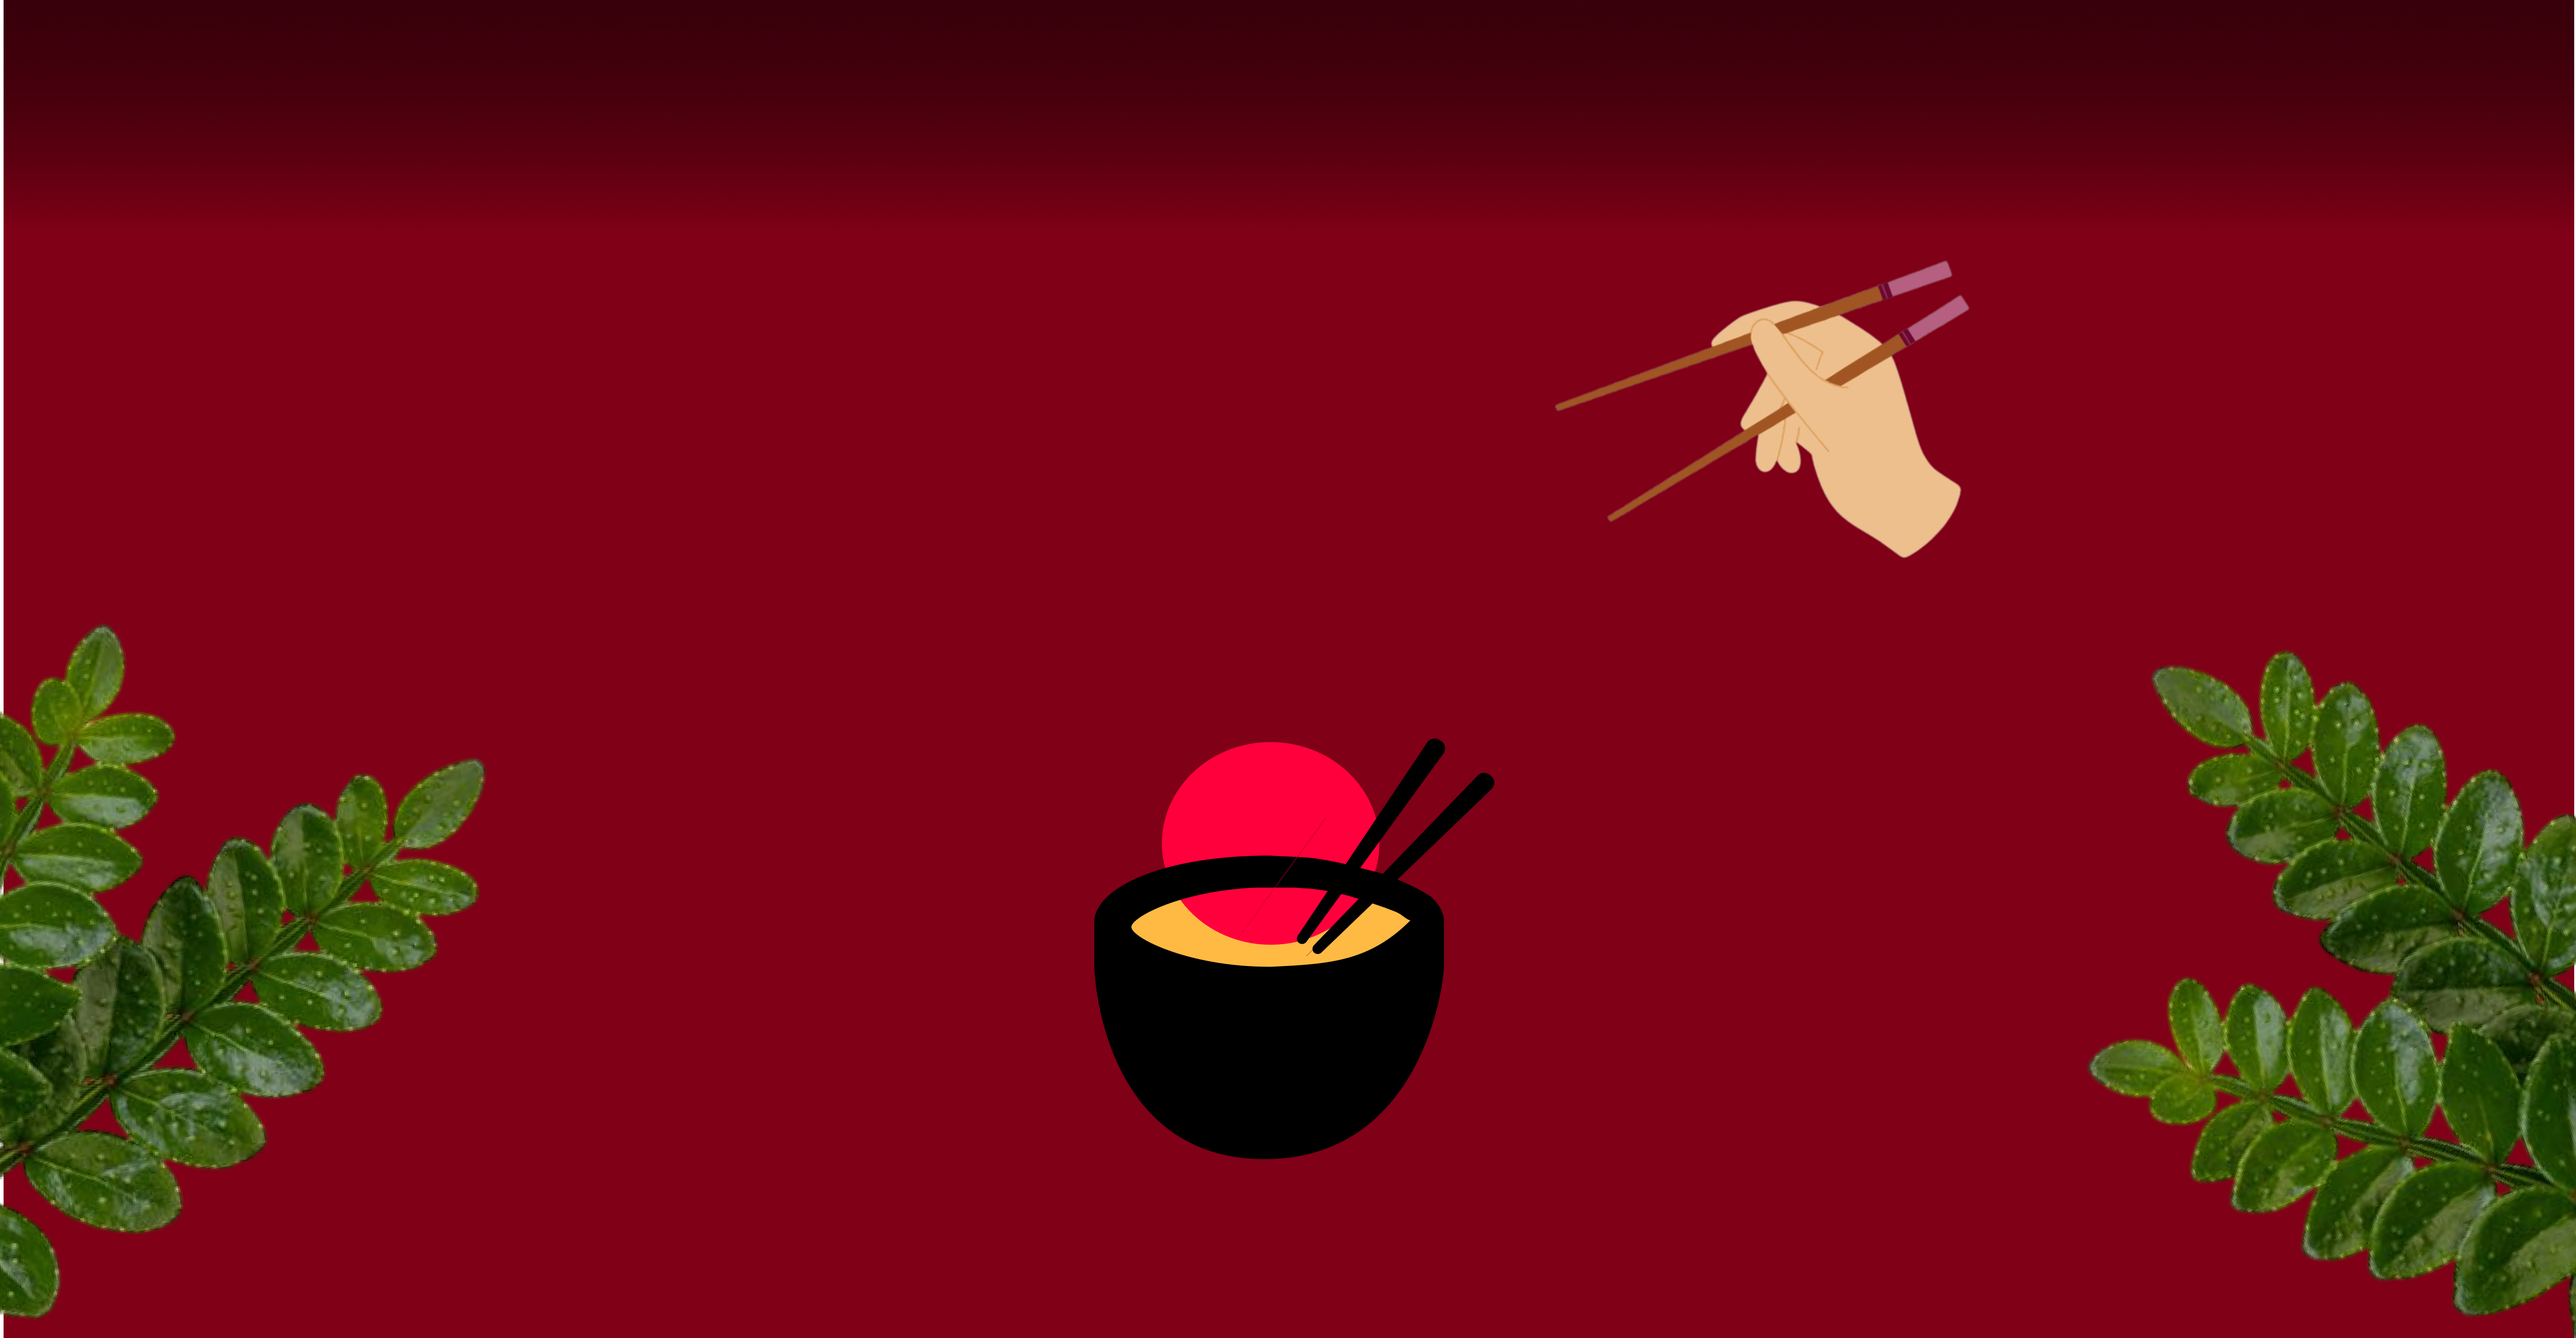
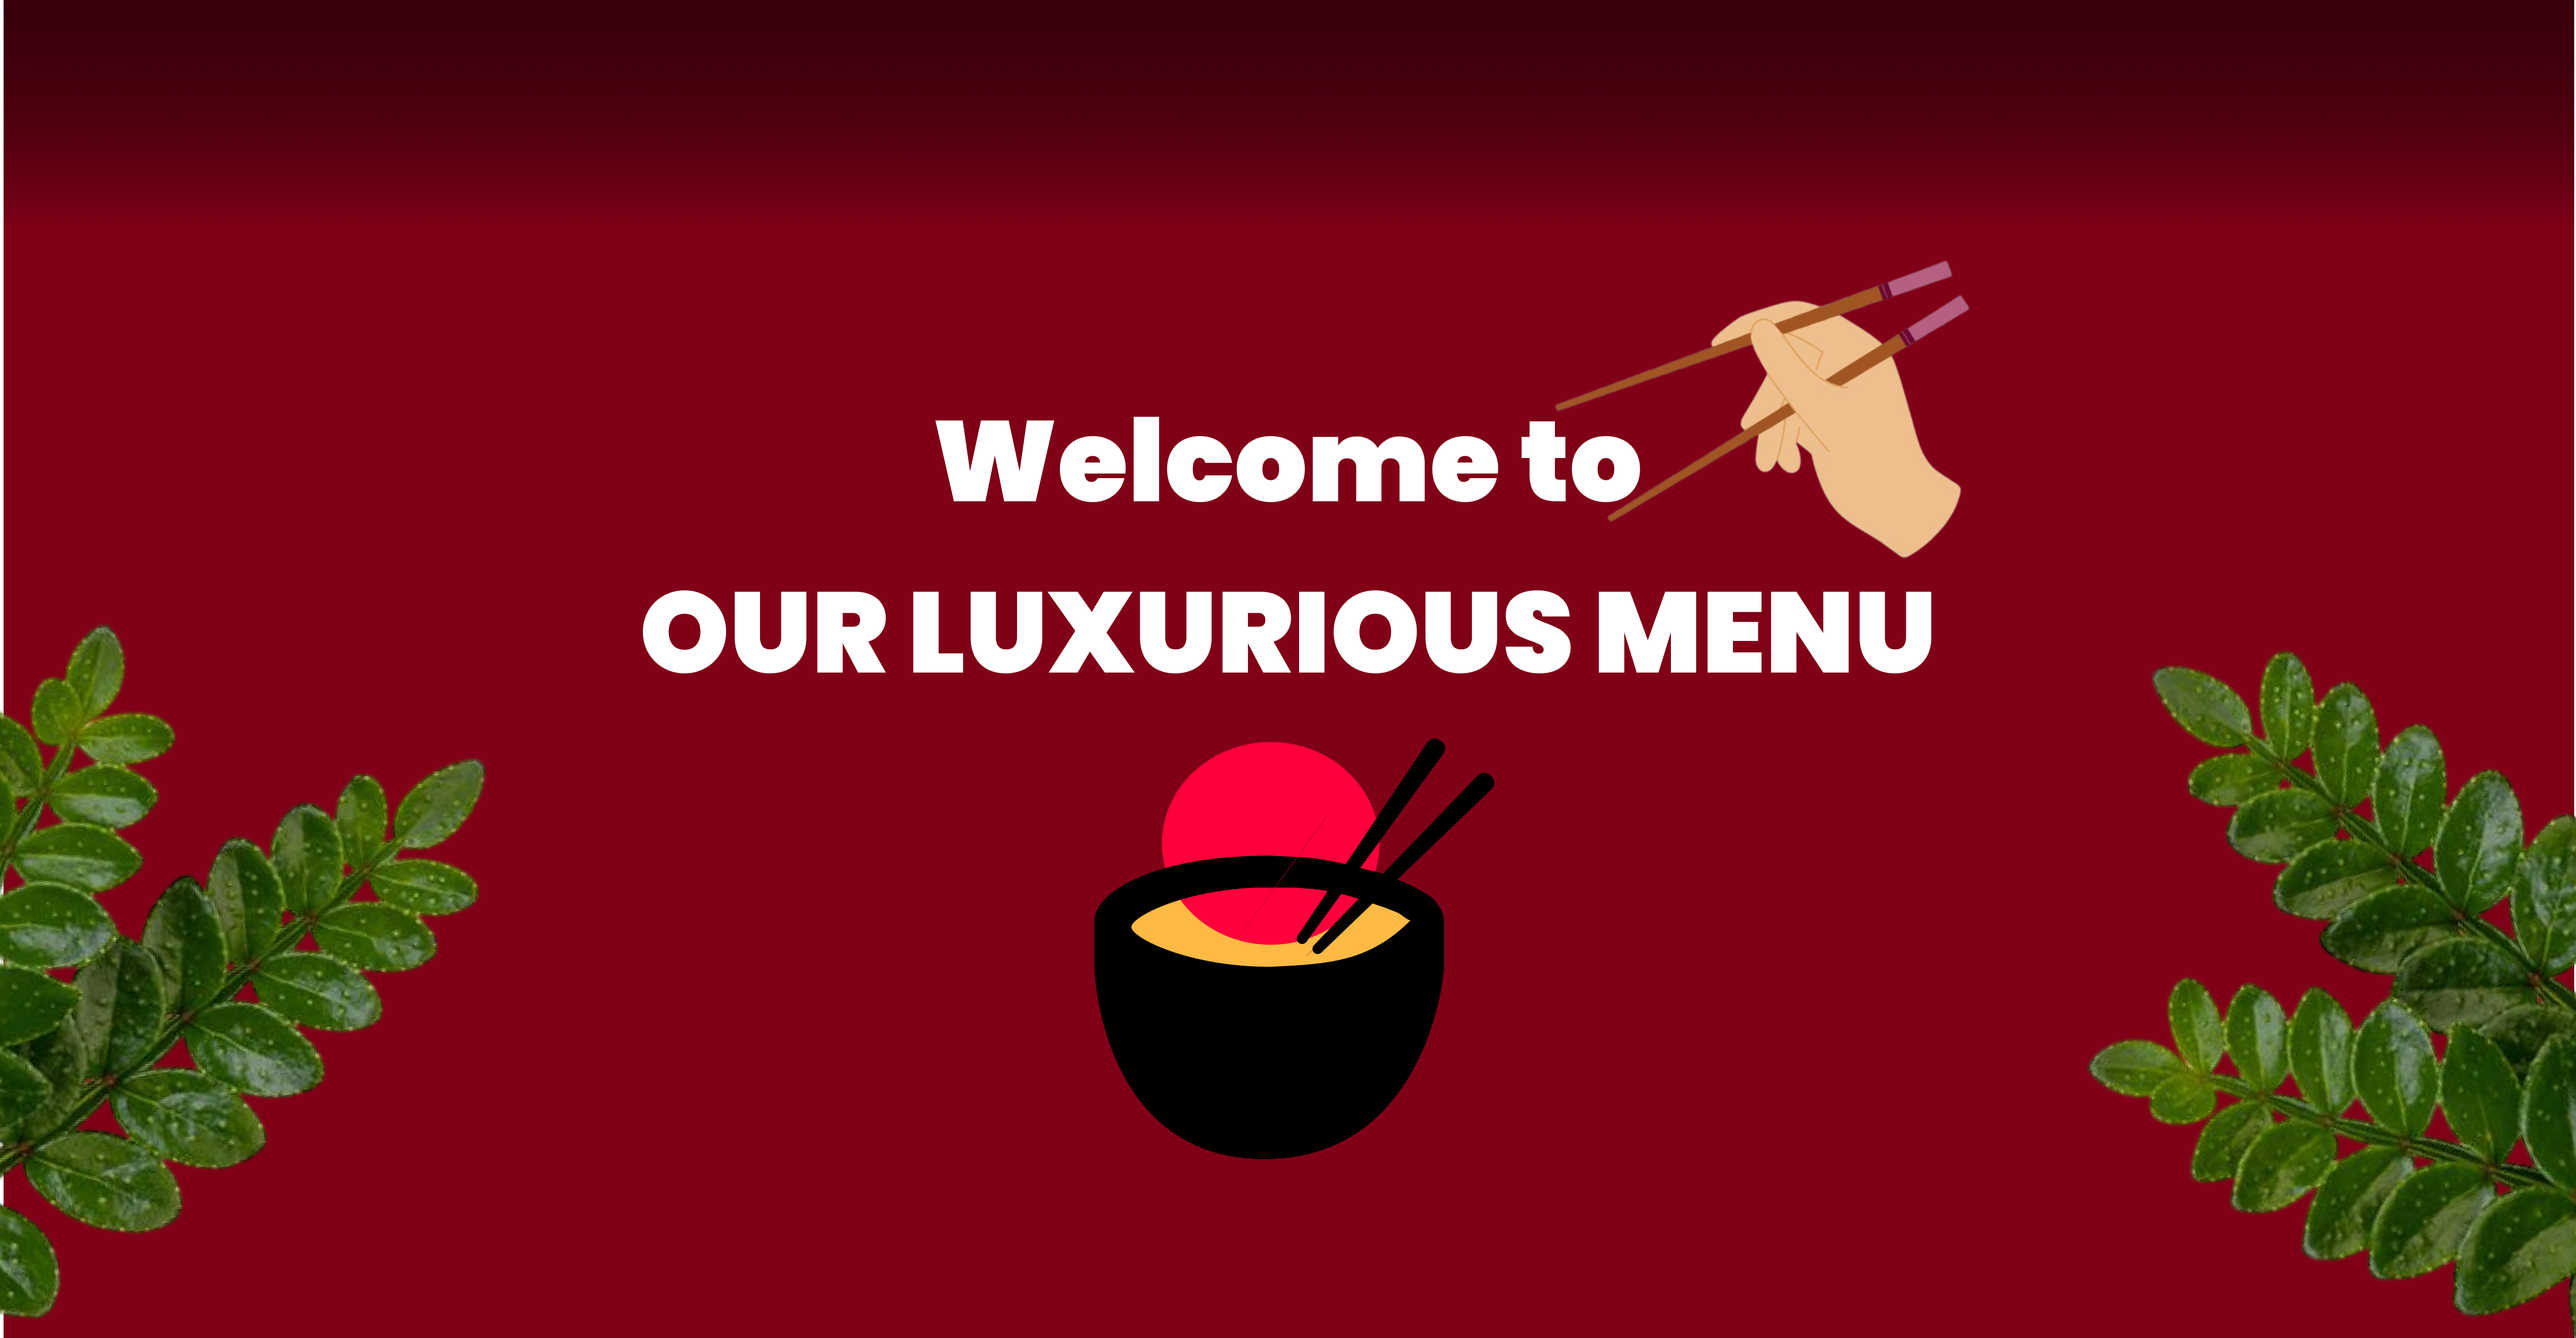
chore: home combo section

Changed region(s): [[0.2495, 0.434, 0.7484, 0.527], [0.343, 0.31, 0.6549, 0.372]]

diff --git a/resources/views/Landing/home.blade.php b/resources/views/Landing/home.blade.php
@@ -11,12 +11,109 @@
 </head>
     <body>
         @include('partials.header')
-        
+        <div class="relative z-10 h-[145vh] w-full"></div>
         <!-- Tambahkan class relative dan z-10 agar naik ke atas background -->
-        <div class="relative z-10 mt-300 -ml-20">
+        <div class="relative z-10 -ml-20">
             <img src="{{ asset('img/Logo/LogoWithName.png') }}" class="scale-40">
             <p class="text-yellow-300 font-bold ml-60 -mt-15 mb-10 text-6xl">Enjoy the true<br>Japanese ramen soup</p>
             <p class="text-white ml-60 text-3xl">Our soup distributed directly from Japan and <br>we guarantee you the best quality from it.</p>
+            <div class="ml-280 flex flex-row -mt-100">
+                <img src="{{ asset('img/Food/FoodOrang.png') }}" class="h-auto w-80 ml-10">
+                <img src="{{ asset('img/Food/Ramen-Wangy.png') }}" class="h-auto w-80 ml-10">
+            </div>        
+        </div>
+
+        <div class="relative z-10 h-[5vh] w-full"></div>
+        <div>
+            <img src="{{ asset('img/Background/Background-Home-2.png') }}" class="absolute scale-100 min-h-screen object-fit ">
+            <div class="relative z-10 pt-[22vw] sm:pt-[19vw] md:pt-[16vw] lg:pt-[14vw] pb-16 px-6 md:px-12 lg:px-20 max-w-78l  mx-auto">
+                <div class="mt-40 grid grid-cols-1 md:grid-cols-2 gap-6 lg:gap-8">
+                    
+                    <!-- COMBO 1 -->
+                    <div class="bg-[#f1f0dc] rounded-3xl p-12 md:p-16 flex flex-row items-center justify-between shadow-lg">
+                        <div class="flex flex-col justify-between h-full space-y-2">
+                            <div>
+                                <h3 class="text-[#c50c11] font-extrabold text-3xl md:text-4xl tracking-tight uppercase">COMBO 1</h3>
+                                <p class="text-zinc-900 font-semibold text-sm md:text-base leading-snug mt-1">Japanese Shoyu Ramen<br>and Creamy Matcha</p>
+                            </div>
+                            <div class="flex items-baseline mt-3 text-[#c50c11]">
+                                <span class="font-extrabold text-xl md:text-2xl self-start mr-1 mt-1">Rp</span>
+                                <span class="font-black text-5xl md:text-6xl tracking-tight leading-none">64</span>
+                                <div class="flex flex-col ml-1 leading-none self-end pb-1">
+                                    <span class="font-bold text-xs md:text-sm line-through opacity-85">75k</span>
+                                    <span class="font-black text-2xl md:text-3xl leading-none">K</span>
+                                </div>
+                            </div>
+                        </div>
+                        <div class="shrink-0 flex items-center justify-center pl-2">
+                            <img src="{{ asset('img/Food/Makanan Combo1.png') }}" alt="Combo 1" class="h-32 sm:h-36 md:h-40 lg:h-44 w-auto object-contain">
+                        </div>
+                    </div>
+
+                    <!-- COMBO 2 -->
+                    <div class="bg-[#f1f0dc] rounded-3xl p-12 md:p-16 flex flex-row items-center justify-between shadow-lg">
+                        <div class="flex flex-col justify-between h-full space-y-2">
+                            <div>
+                                <h3 class="text-[#c50c11] font-extrabold text-3xl md:text-4xl tracking-tight uppercase">COMBO 2</h3>
+                                <p class="text-zinc-900 font-semibold text-sm md:text-base leading-snug mt-1">Japanese Miso Ramen<br>and Melon Soda Float</p>
+                            </div>
+                            <div class="flex items-baseline mt-3 text-[#c50c11]">
+                                <span class="font-extrabold text-xl md:text-2xl self-start mr-1 mt-1">Rp</span>
+                                <span class="font-black text-5xl md:text-6xl tracking-tight leading-none">70</span>
+                                <div class="flex flex-col ml-1 leading-none self-end pb-1">
+                                    <span class="font-bold text-xs md:text-sm line-through opacity-85">80k</span>
+                                    <span class="font-black text-2xl md:text-3xl leading-none">K</span>
+                                </div>
+                            </div>
+                        </div>
+                        <div class="shrink-0 flex items-center justify-center pl-2">
+                            <img src="{{ asset('img/Food/MakananCombo2.png') }}" alt="Combo 2" class="h-32 sm:h-360 md:h-40 lg:h-44 w-auto object-contain">
+                        </div>
+                    </div>
+
+                    <!-- COMBO 3 -->
+                    <div class="bg-[#f1f0dc] rounded-3xl p-12 md:p-16 flex flex-row items-center justify-between shadow-lg">
+                        <div class="flex flex-col justify-between h-full space-y-2">
+                            <div>
+                                <h3 class="text-[#c50c11] font-extrabold text-3xl md:text-4xl tracking-tight uppercase">COMBO 3</h3>
+                                <p class="text-zinc-900 font-semibold text-sm md:text-base leading-snug mt-1">Japanese Tori Paitan<br>and Cold Ocha</p>
+                            </div>
+                            <div class="flex items-baseline mt-3 text-[#c50c11]">
+                                <span class="font-extrabold text-xl md:text-2xl self-start mr-1 mt-1">Rp</span>
+                                <span class="font-black text-5xl md:text-6xl tracking-tight leading-none">68</span>
+                                <div class="flex flex-col ml-1 leading-none self-end pb-1">
+                                    <span class="font-bold text-xs md:text-sm line-through opacity-85">78k</span>
+                                    <span class="font-black text-2xl md:text-3xl leading-none">K</span>
+                                </div>
+                            </div>
+                        </div>
+                        <div class="shrink-0 flex items-center justify-center pl-2">
+                            <img src="{{ asset('img/Food/MakananCombo3.png') }}" alt="Combo 3" class="h-32 sm:h-36 md:h-40 lg:h-44 w-auto object-contain">
+                        </div>
+                    </div>
+
+                    <!-- COMBO 4 -->
+                    <div class="bg-[#f1f0dc] rounded-3xl p-12 md:p-16 flex flex-row items-center justify-between shadow-lg">
+                        <div class="flex flex-col justify-between h-full space-y-2">
+                            <div>
+                                <h3 class="text-[#c50c11] font-extrabold text-3xl md:text-4xl tracking-tight uppercase">COMBO 4</h3>
+                                <p class="text-zinc-900 font-semibold text-sm md:text-base leading-snug mt-1">Japanese Spicy Ramen<br>and Calpis Soda</p>
+                            </div>
+                            <div class="flex items-baseline mt-3 text-[#c50c11]">
+                                <span class="font-extrabold text-xl md:text-2xl self-start mr-1 mt-1">Rp</span>
+                                <span class="font-black text-5xl md:text-6xl tracking-tight leading-none">75</span>
+                                <div class="flex flex-col ml-1 leading-none self-end pb-1">
+                                    <span class="font-bold text-xs md:text-sm line-through opacity-85">85k</span>
+                                    <span class="font-black text-2xl md:text-3xl leading-none">K</span>
+                                </div>
+                            </div>
+                        </div>
+                        <div class="shrink-0 flex items-center justify-center pl-2">
+                            <img src="{{ asset('img/Food/MakananCombo4.png') }}" alt="Combo 4" class="h-32 sm:h-36 md:h-40 lg:h-44 w-auto object-contain">
+                        </div>
+                    </div>
+        
+            </div>
         </div>
 
         @include('partials.footer')

diff --git a/resources/views/Landing/menu.blade.php b/resources/views/Landing/menu.blade.php
@@ -11,15 +11,7 @@
     <body>
         
         @include('partials.header')
-    
-    
-    
-    
-    
-    
-    
-    
-    
+
         @include('partials.footer')
         
         <p></p>
